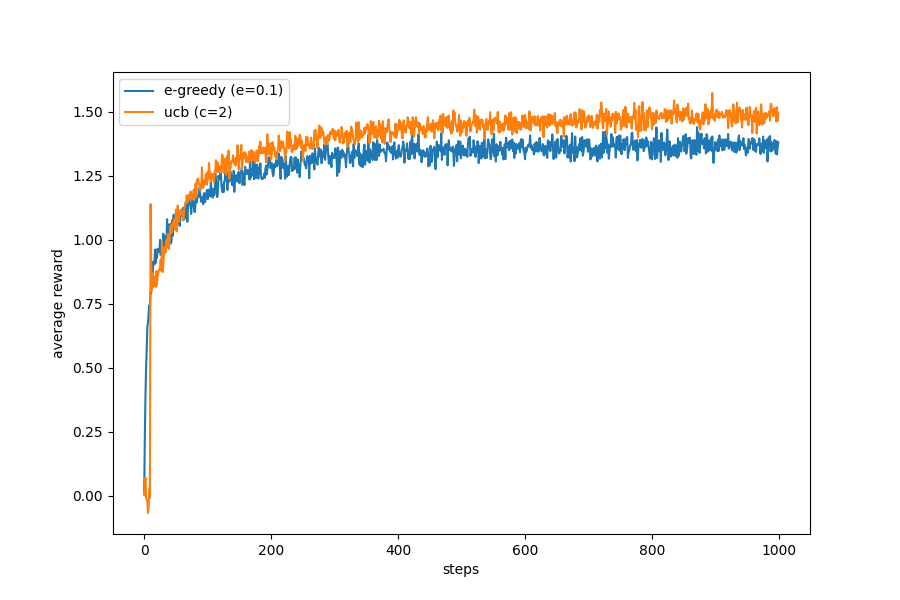
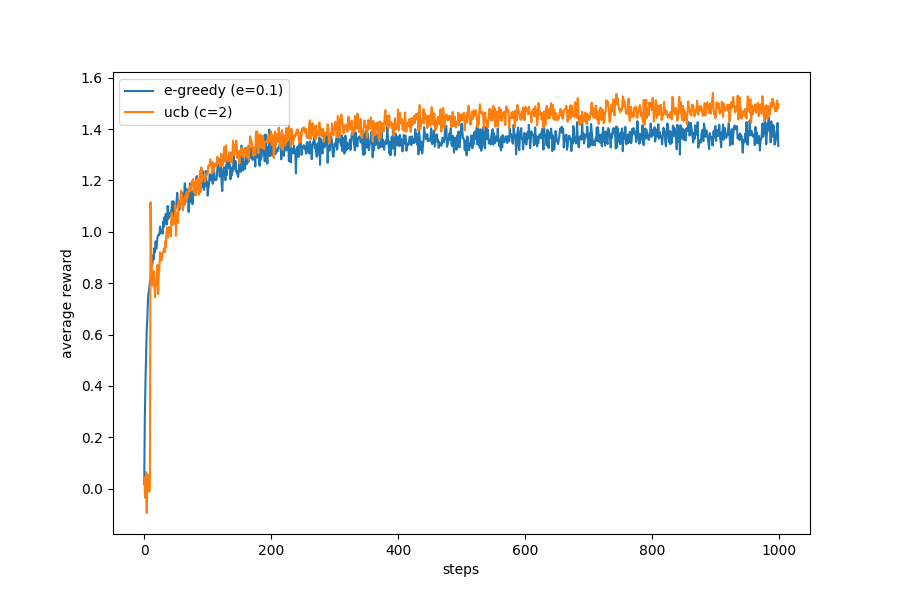
fixed argmax issue

diff --git a/hw1-3.py b/hw1-3.py
@@ -32,7 +32,7 @@ class GreedyAgent:
     
     def act(self):
         if np.random.rand() < self.epsilon: action = np.random.choice(np.arange(NUM_OF_ARMS))
-        else: action = np.argmax(self.q_estimation)
+        else: action = np.random.choice(np.where(self.q_estimation == np.max(self.q_estimation))[0])
         self.action_counts[action] += 1
         return action
     
@@ -48,7 +48,7 @@ class InitialAgent:
         self.alpha = alpha
     
     def act(self):
-        action = np.argmax(self.q_estimation)
+        action = np.random.choice(np.where(self.q_estimation == np.max(self.q_estimation))[0])
         return action
     
     def learn(self, action, reward):
@@ -65,7 +65,8 @@ class UCBAgent:
         self.action_counts = np.zeros(NUM_OF_ARMS)
     
     def act(self):
-        action = np.argmax(self.q_estimation + self.const * np.sqrt(np.log(self.time + 1) / (self.action_counts + 1e-5)))
+        ucb_estimation = self.q_estimation + self.const * np.sqrt(np.log(self.time + 1) / (self.action_counts + 1e-5))
+        action = np.random.choice(np.where(ucb_estimation == np.max(ucb_estimation))[0])
         self.time += 1
         self.action_counts[action] += 1
         return action

diff --git a/hw1-2.py b/hw1-2.py
@@ -32,7 +32,7 @@ class GreedyAgent:
     
     def act(self):
         if np.random.rand() < self.epsilon: action = np.random.choice(np.arange(NUM_OF_ARMS))
-        else: action = np.argmax(self.q_estimation)
+        else: action = np.random.choice(np.where(self.q_estimation == np.max(self.q_estimation))[0])
         self.action_counts[action] += 1
         return action
     
@@ -50,7 +50,8 @@ class UCBAgent:
         self.action_counts = np.zeros(NUM_OF_ARMS)
     
     def act(self):
-        action = np.argmax(self.q_estimation + self.const * np.sqrt(np.log(self.time + 1) / (self.action_counts + 1e-5)))
+        ucb_estimation = self.q_estimation + self.const * np.sqrt(np.log(self.time + 1) / (self.action_counts + 1e-5))
+        action = np.random.choice(np.where(ucb_estimation == np.max(ucb_estimation))[0])
         self.time += 1
         self.action_counts[action] += 1
         return action
